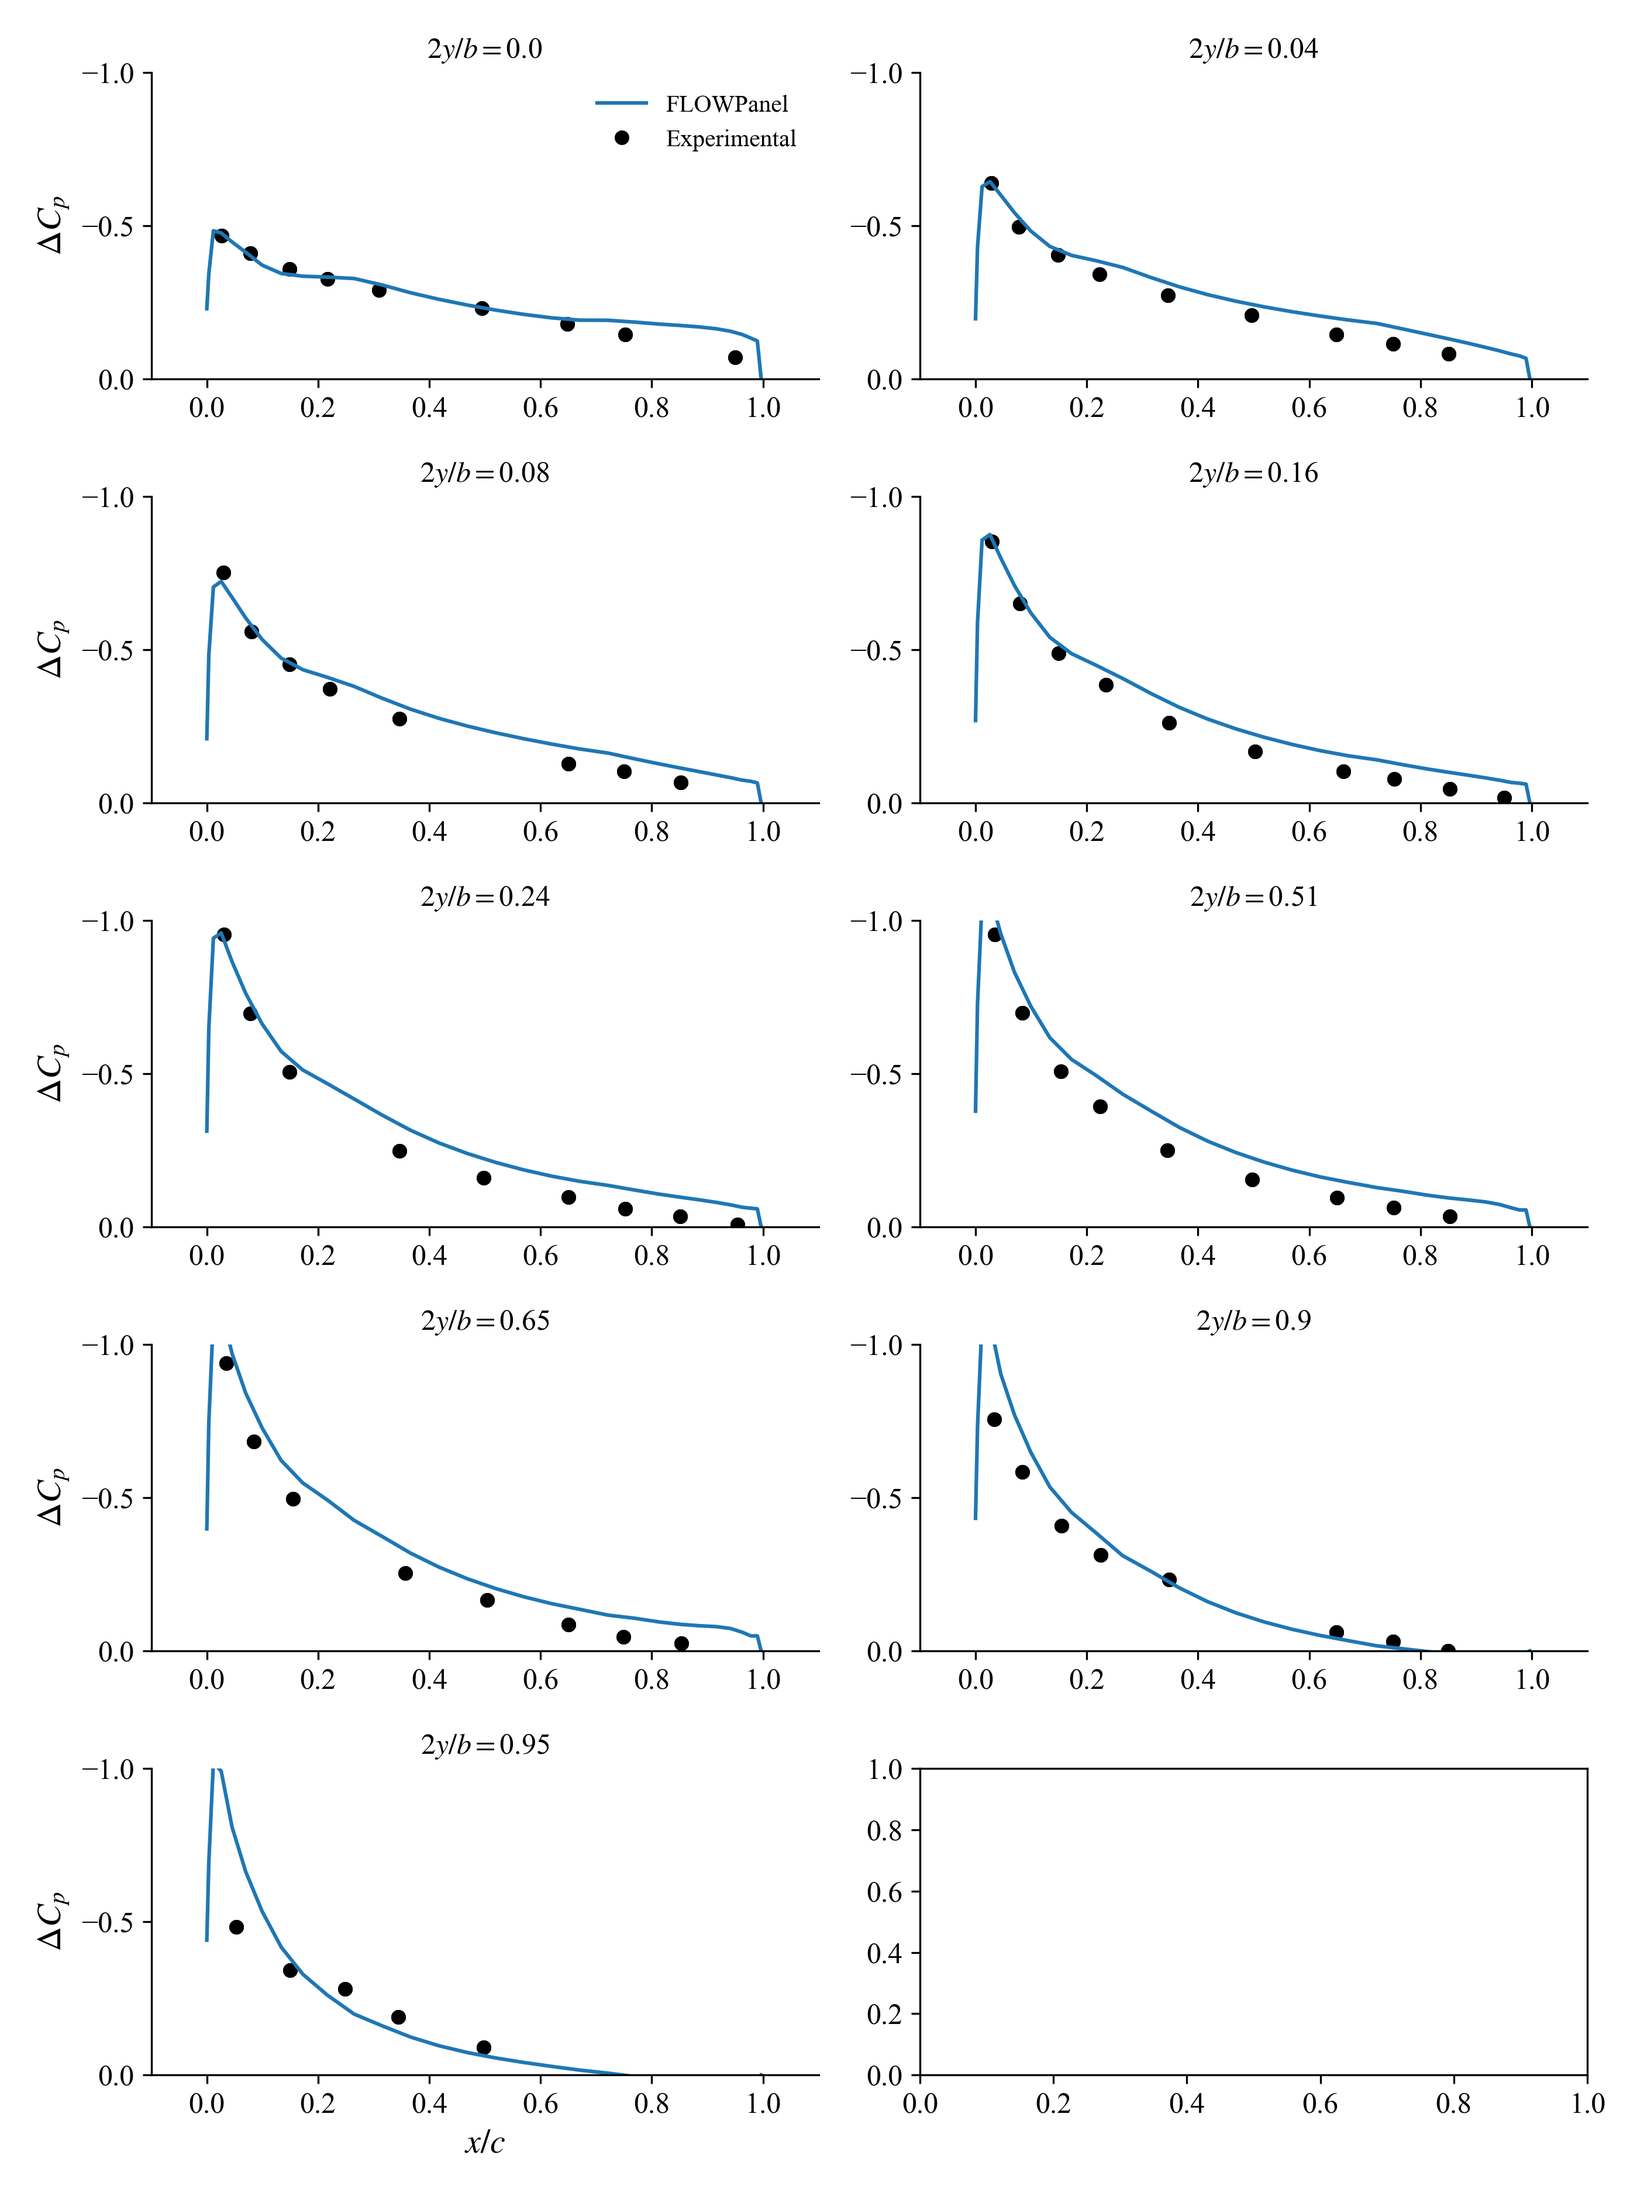
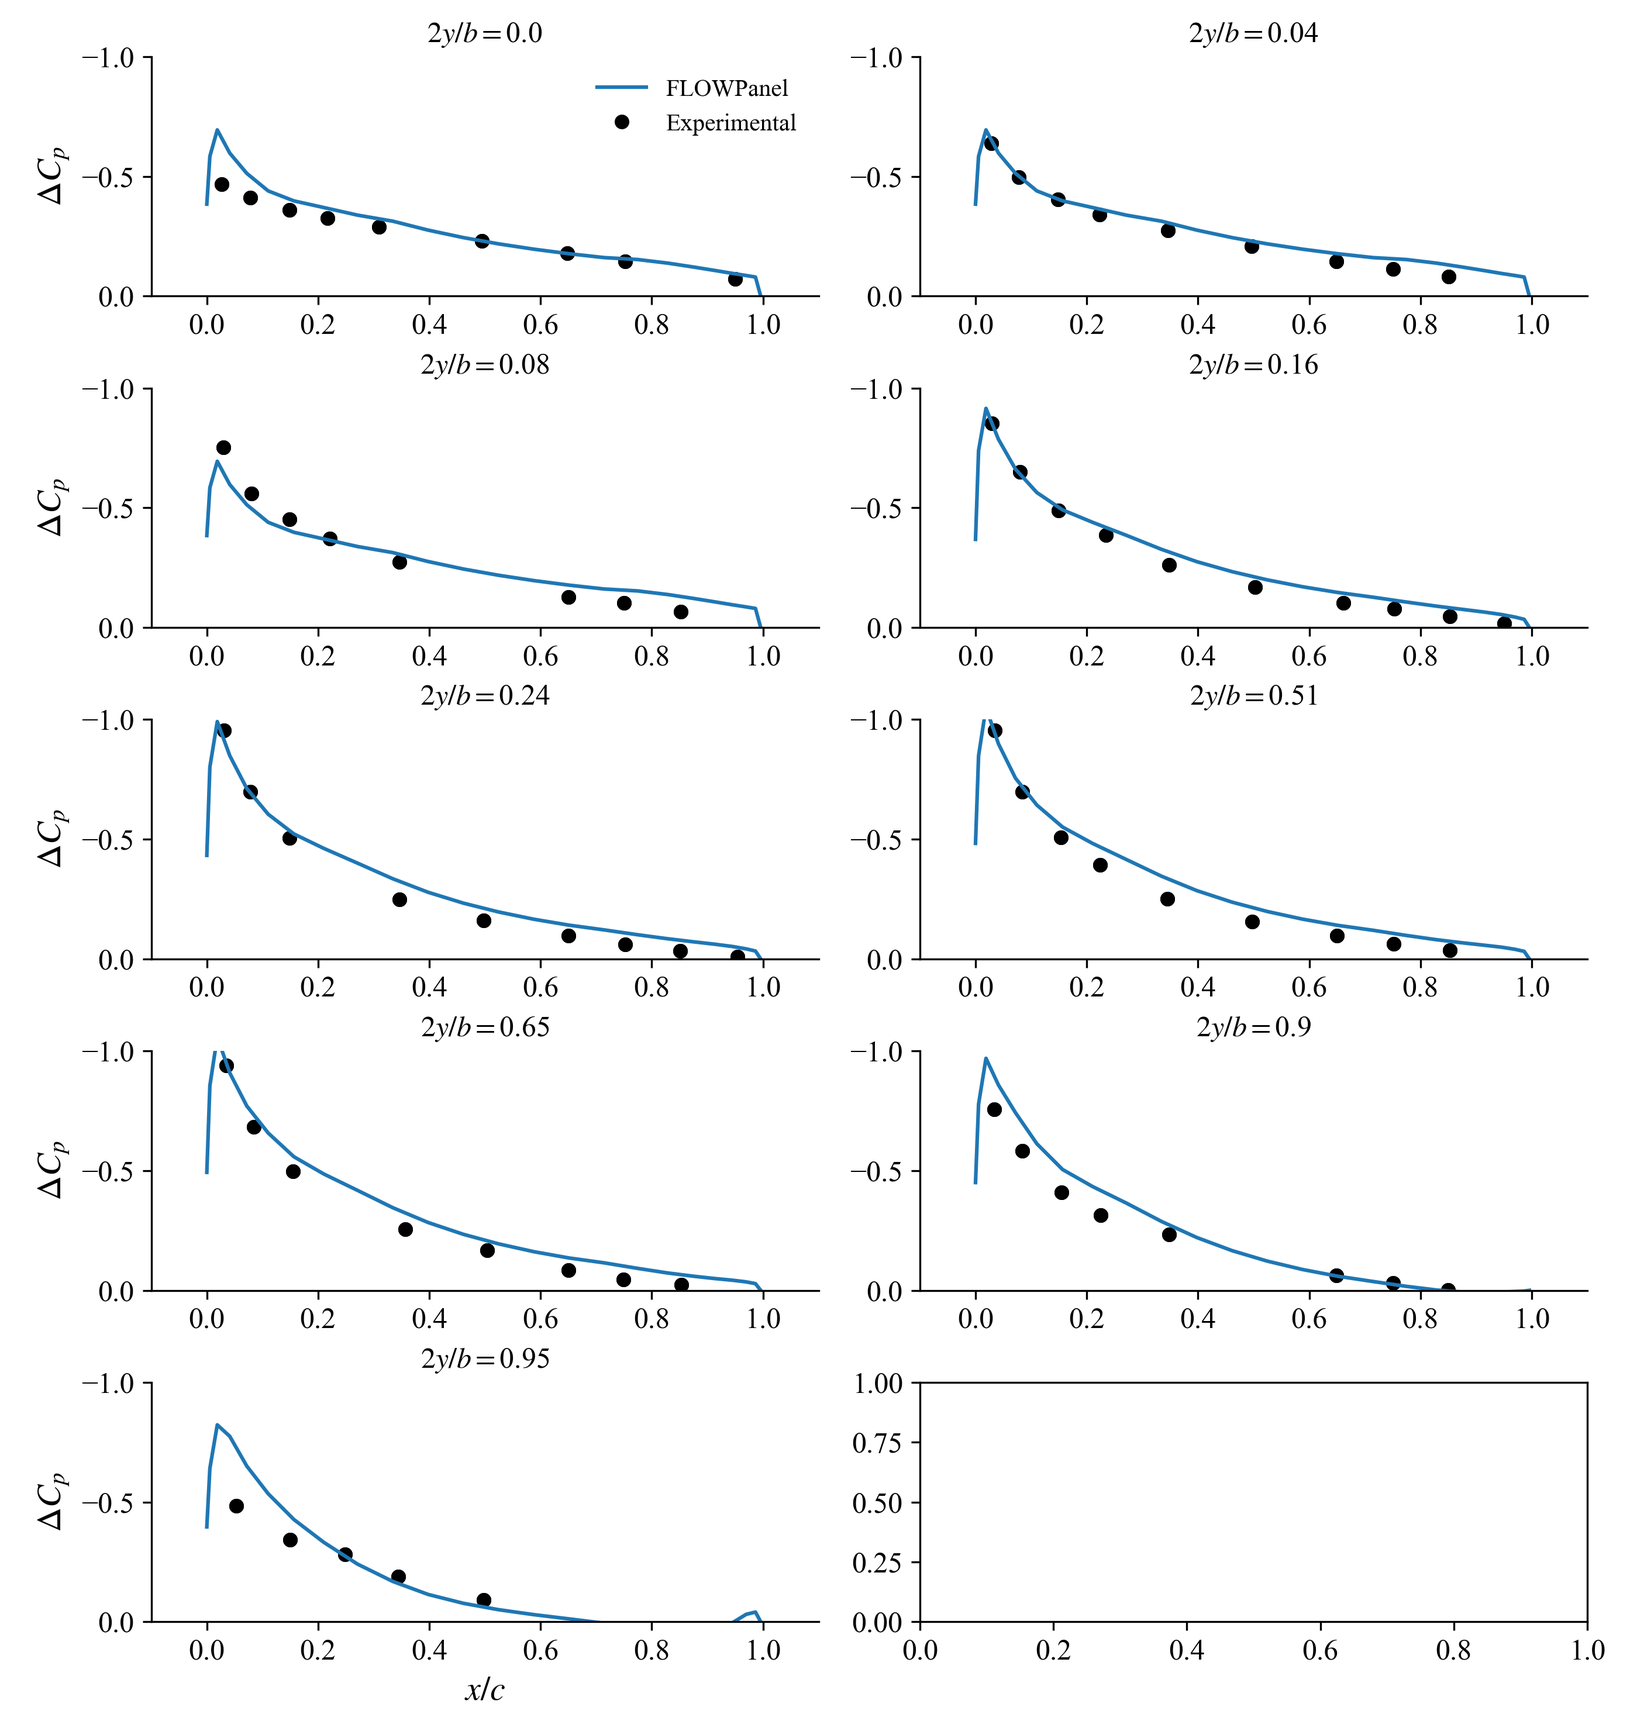
Polish swept wing example

diff --git a/docs/src/examples/sweptwing-4p2aoa.md b/docs/src/examples/sweptwing-4p2aoa.md
@@ -57,13 +57,13 @@ airfoil         = "airfoil-rae101.csv"          # Airfoil contour file
 
 n_rfl           = 8                             # Control number of chordwise panels
 # n_rfl         = 10                            # <-- uncomment this for finer discretization
-#             # 0 to 0.25 of the airfoil has `n_rfl` panels at a geometric expansion of 10 that is not central
+
+#           # 0 to 0.25 of the airfoil has `n_rfl` panels at a geometric expansion of 10 that is not central
 NDIVS_rfl = [ (0.25, n_rfl,   10.0, false),
             # 0.25 to 0.75 of the airfoil has `n_rfl` panels evenly spaced
               (0.50, n_rfl,    1.0, true),
             # 0.75 to 1.00 of the airfoil has `n_rfl` panels at a geometric expansion of 0.1 that is not central
               (0.25, n_rfl, 1/10.0, false)]
-# NDIVS_rfl = [ (1.0, 3*n_rfl,   1.0, false) ]
 
 # NOTE: A geometric expansion of 10 that is not central means that the last
 #       panel is 10 times larger than the first panel. If central, the
@@ -72,6 +72,7 @@ NDIVS_rfl = [ (0.25, n_rfl,   10.0, false),
 # ----- Spanwise discretization
 n_span          = 15                            # Number of spanwise panels on each side of the wing
 # n_span        = 60                            # <-- uncomment this for finer discretization
+
 NDIVS_span_l    = [(1.0, n_span, 10.0, false)]  # Discretization of left side
 NDIVS_span_r    = [(1.0, n_span, 10.0, false)]  # Discretization of right side
 
@@ -91,20 +92,14 @@ println("Generating body...")
 bodytype = pnl.RigidWakeBody{pnl.VortexRing}    # Elements and wake model
 
 # Arguments for lofting the left side of the wing
-bodyoptargs_l = (
-                CPoffset=1e-14,                 # Offset control points slightly in the positive normal direction
-                characteristiclength=(args...)->b/ar,   # Characheristic length for control point offset
-                kerneloffset=1e-8,              # Offset of kernel to avoid singularities
-                kernelcutoff=1e-14              # Cutoff of kernel to avoid singularities
-              )
+bodyoptargs_l = (;
+                    CPoffset=1e-14,                 # Offset control points slightly in the positive normal direction
+                )
 
 # Same arguments but negative CPoffset since the normals are flipped
-bodyoptargs_r = (
-                CPoffset=-bodyoptargs_l.CPoffset,
-                characteristiclength=bodyoptargs_l.characteristiclength,
-                kerneloffset=bodyoptargs_l.kerneloffset,
-                kernelcutoff=bodyoptargs_l.kernelcutoff
-              )
+bodyoptargs_r = (;
+                    CPoffset=-1e-14
+                )
 
 # Loft left side of the wing from left to right
 @time wing_left = pnl.simplewing(b, ar, tr, twist_root, twist_tip, lambda, gamma;
@@ -158,7 +153,7 @@ Dbs = repeat(Vinf/magVinf, 1, body.nsheddings)
 println("Post processing...")
 
 # Calculate surface velocity induced by the body on itself
-@time Us = pnl.calcfield_U(body, body; characteristiclength=(args...)->b/ar)
+@time Us = pnl.calcfield_U(body, body)
 
 # NOTE: Since the boundary integral equation of the potential flow has a
 #       discontinuity at the boundary, we need to add the gradient of the
@@ -182,7 +177,7 @@ if paraview
     str = save_path*"/"
 
     # Save body as a VTK
-    str *= pnl.save(body, "wing"; path=save_path, wake_panel=false, debug=false)
+    str *= pnl.save(body, "wing"; path=save_path)
 
     # Call Paraview
     run(`paraview --data=$(str)`)
@@ -210,8 +205,19 @@ distribution and spanwise loading that is plotted here below)
 </center>
 ```
 
+
 |           | Experimental  | FLOWPanel                 | Error | `OPENVSP` |
 | --------: | :-----------: | :-----------------------: | :---- |  :----: |
-| $C_L$   | 0.238         | 0.285    | 19.8% | *`0.257`* |
-| $C_D$   | 0.005         | 0.0077    | 54.0% | *`0.0033`* |
+| $C_L$   | 0.238         | 0.272    | 14.1% | *`0.257`* |
+| $C_D$   | 0.005         | 0.0066    | 32.0% | *`0.0033`* |
+
+
+!!! details "Tip"
+    You can also automatically run this example and generate these plots
+    with the following command:
+    ```julia
+    import FLOWPanel as pnl
+
+    include(joinpath(pnl.examples_path, "sweptwing.jl"))
+    ```
 

diff --git a/docs/src/examples/sweptwing-aoasweep.md b/docs/src/examples/sweptwing-aoasweep.md
@@ -5,7 +5,7 @@ Using the wing defined in the previous section, we now sweep the angle
 
 ```julia
 AOAs = [0, 2.1, 4.2, 6.3, 8.4, 10.5, 12, 14, 16] # (deg) angles of attack
-Xac = [0.25*b/ar, 0, 0]                 # (m) aerodynamic center for moment calculation
+Xac = [0.0*b/ar, 0, 0]                 # (m) aerodynamic center for moment calculation
 
 # Results are stored in these arrays
 Ls, Ds = [], []                         # Lift and drag at each angle of attack
@@ -110,4 +110,15 @@ to see how to postprocess the solution as plotted here below)
     <img src="../../assets/images/sweptwing000-sweep-Cm.png" alt="Pic here" style="width: 50%;"/>
 </center>
 ```
+
+!!! details "Tip"
+    You can also automatically run this example and generate these plots
+    with the following command:
+    ```julia
+    import FLOWPanel as pnl
+
+    include(joinpath(pnl.examples_path, "sweptwing.jl"))
+    include(joinpath(pnl.examples_path, "sweptwing_aoasweep.jl"))
+    
+    ```
 

diff --git a/docs/resources/data/sweptwing000-CLCD.md b/docs/resources/data/sweptwing000-CLCD.md
@@ -1,5 +1,5 @@
 |           | Experimental  | FLOWPanel                 | Error | `OPENVSP` |
 | --------: | :-----------: | :-----------------------: | :---- |  :----: |
-| $C_L$   | 0.238         | 0.285    | 19.8% | *`0.257`* |
-| $C_D$   | 0.005         | 0.0077    | 54.0% | *`0.0033`* |
+| $C_L$   | 0.238         | 0.272    | 14.1% | *`0.257`* |
+| $C_D$   | 0.005         | 0.0066    | 32.0% | *`0.0033`* |
 
